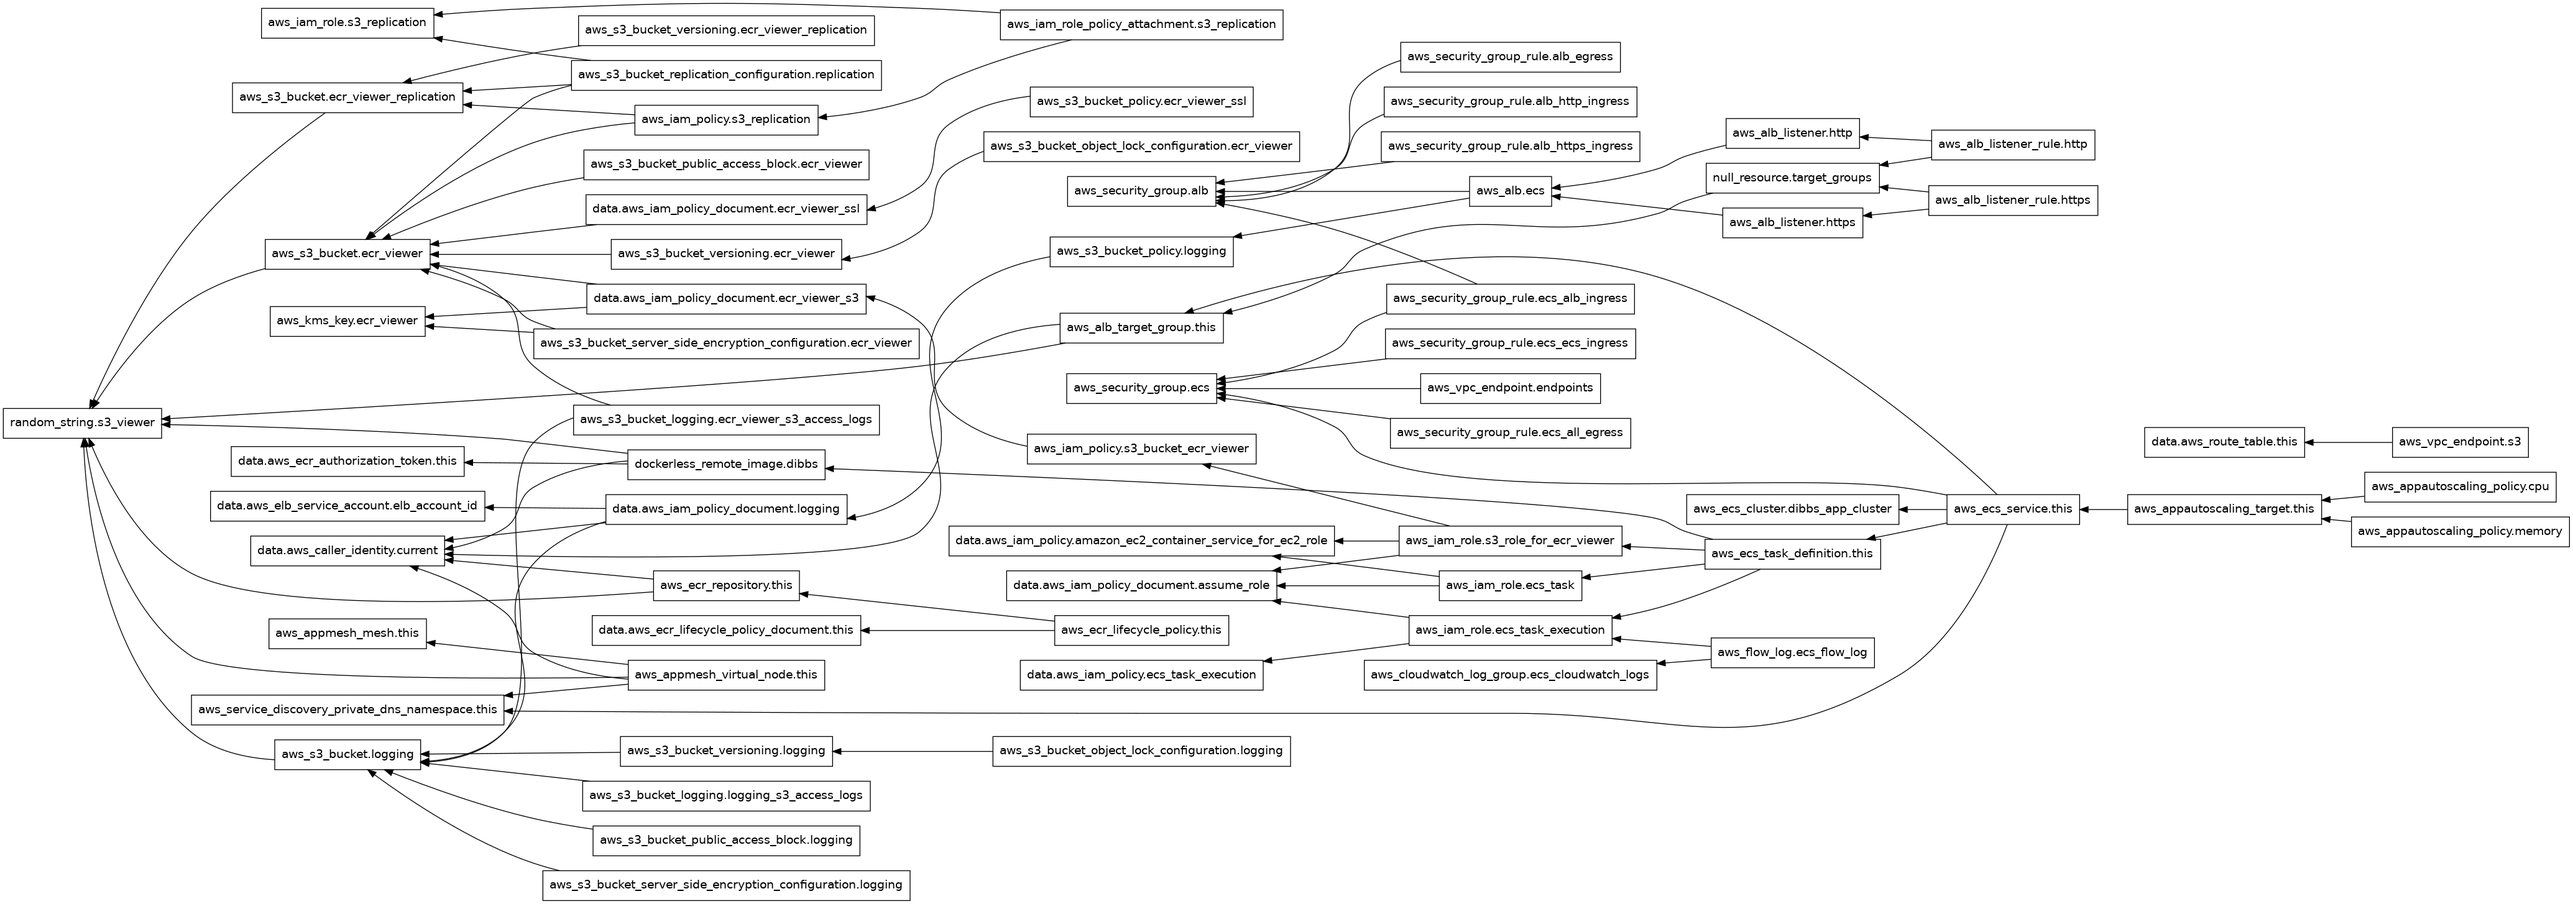
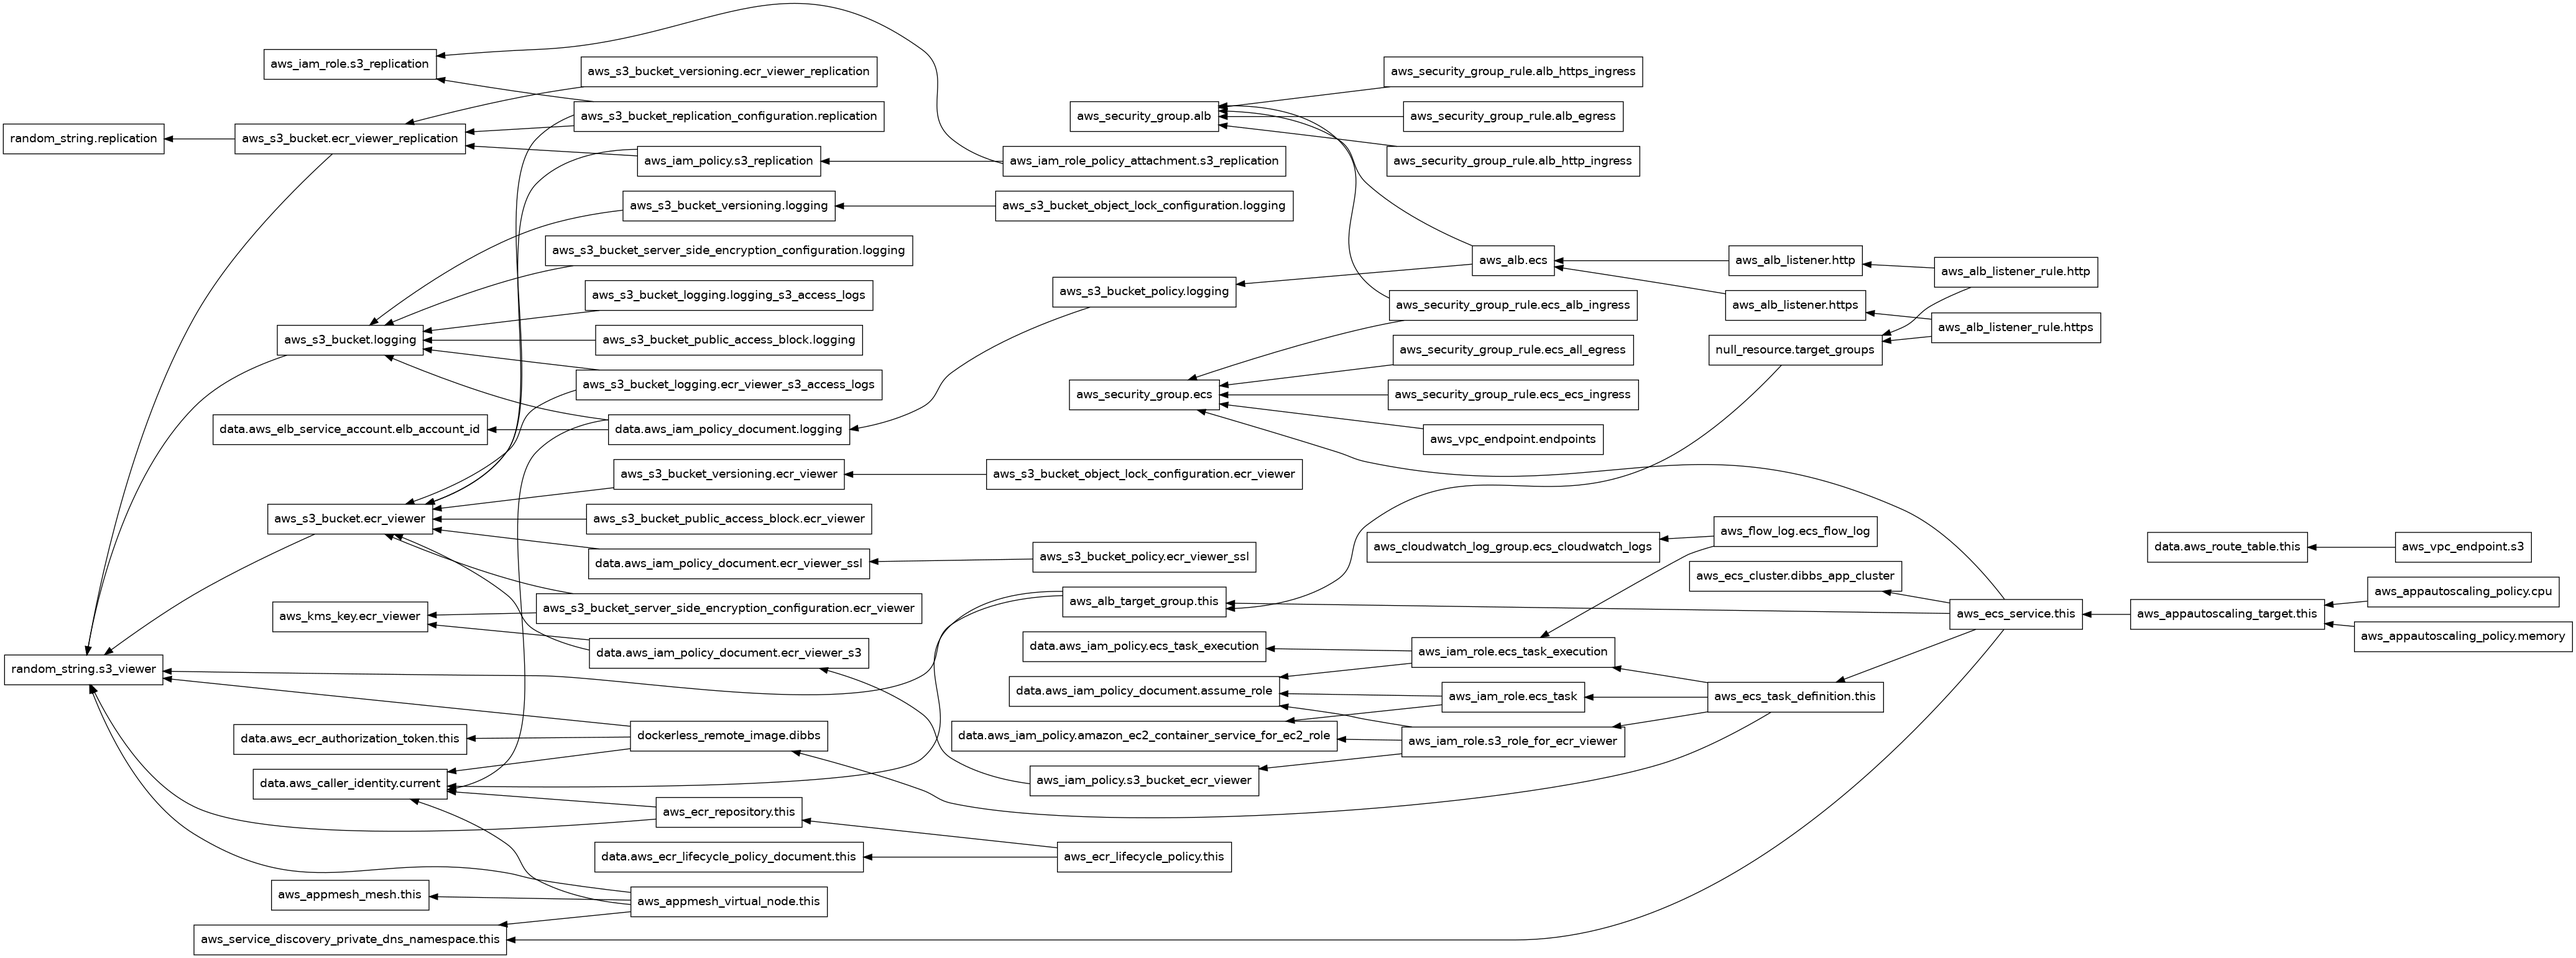
fix: remove unused aws replication provider and update s3 bucket region

diff --git a/README.md b/README.md
@@ -112,7 +112,6 @@ The current architectural design for dibbs-aws is as follows:
 | Name | Version |
 |------|---------|
 | <a name="provider_aws"></a> [aws](#provider\_aws) | 5.86.1 |
-| <a name="provider_aws.replication"></a> [aws.replication](#provider\_aws.replication) | 5.86.1 |
 | <a name="provider_dockerless"></a> [dockerless](#provider\_dockerless) | 0.1.1 |
 | <a name="provider_null"></a> [null](#provider\_null) | 3.2.4 |
 | <a name="provider_random"></a> [random](#provider\_random) | 3.6.3 |
@@ -181,6 +180,7 @@ No modules.
 | [aws_vpc_endpoint.s3](https://registry.terraform.io/providers/hashicorp/aws/latest/docs/resources/vpc_endpoint) | resource |
 | [dockerless_remote_image.dibbs](https://registry.terraform.io/providers/nullstone-io/dockerless/latest/docs/resources/remote_image) | resource |
 | [null_resource.target_groups](https://registry.terraform.io/providers/hashicorp/null/latest/docs/resources/resource) | resource |
+| [random_string.replication](https://registry.terraform.io/providers/hashicorp/random/latest/docs/resources/string) | resource |
 | [random_string.s3_viewer](https://registry.terraform.io/providers/hashicorp/random/latest/docs/resources/string) | resource |
 | [aws_caller_identity.current](https://registry.terraform.io/providers/hashicorp/aws/latest/docs/data-sources/caller_identity) | data source |
 | [aws_ecr_authorization_token.this](https://registry.terraform.io/providers/hashicorp/aws/latest/docs/data-sources/ecr_authorization_token) | data source |
